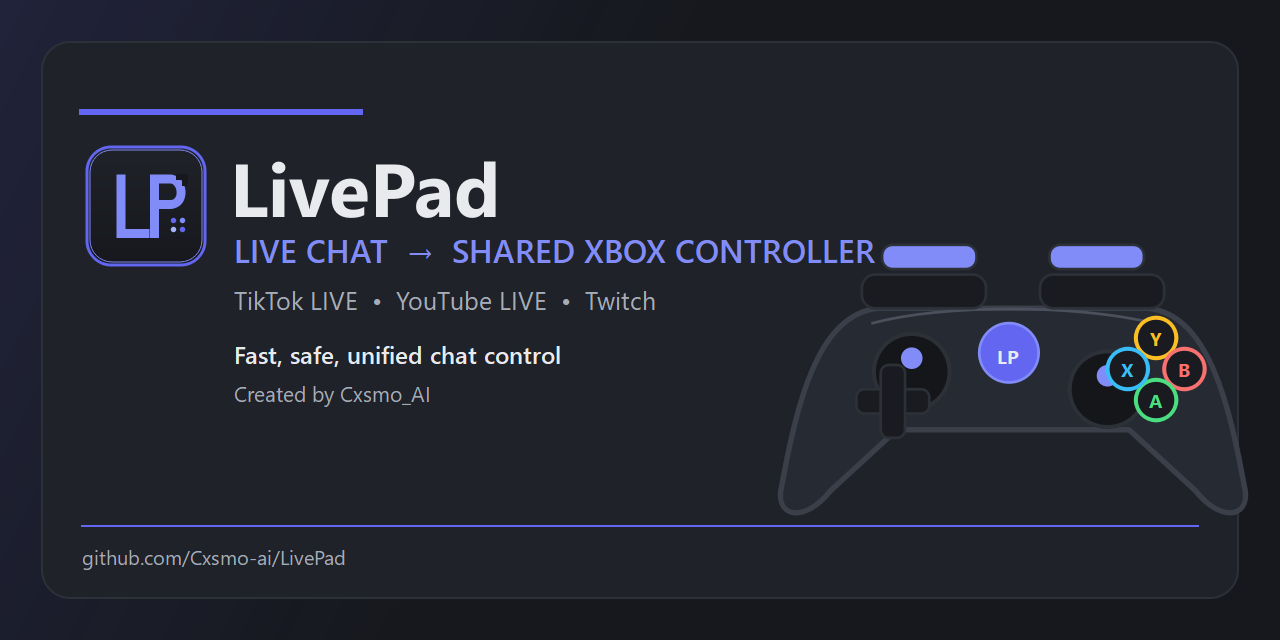
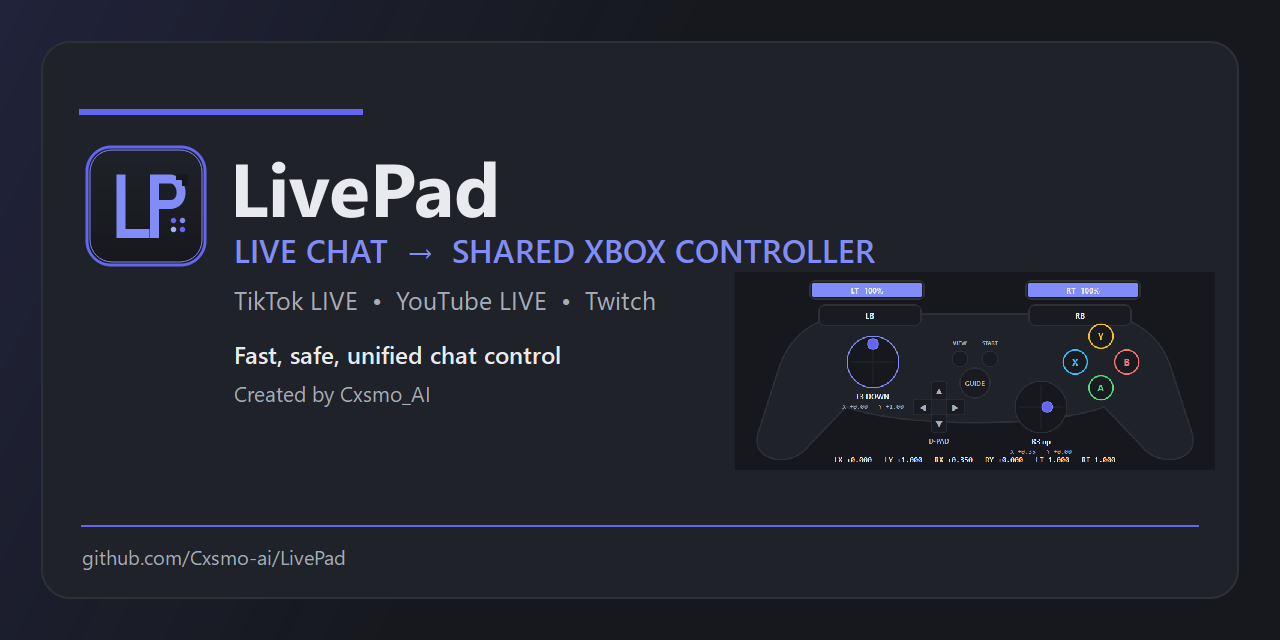
Match social preview controller to desktop tester

diff --git a/tools/generate_social_preview.py b/tools/generate_social_preview.py
@@ -1,7 +1,15 @@
+import os
+import sys
 from pathlib import Path
 
+sys.path.insert(0, str(Path(__file__).resolve().parents[1]))
+
 from PyQt6.QtCore import QPointF, QRectF, Qt
-from PyQt6.QtGui import QColor, QFont, QGuiApplication, QImage, QLinearGradient, QPainter, QPainterPath, QPen
+from PyQt6.QtGui import QColor, QFont, QImage, QLinearGradient, QPainter, QPainterPath, QPen
+from PyQt6.QtWidgets import QApplication
+
+from controller.state import ControllerState
+from gamepad_tester import GamepadTesterWidget
 
 
 PAGE = QColor("#16181D")
@@ -82,8 +90,31 @@ def draw_controller(painter: QPainter, x: float, y: float, scale: float) -> None
         painter.drawText(QRectF(x + (cx - 12) * scale, y + (cy - 9) * scale, 24 * scale, 18 * scale), Qt.AlignmentFlag.AlignCenter, label)
 
 
+def render_tester() -> QImage:
+    """Render the real in-app tester so this artwork cannot drift from it."""
+    os.environ.setdefault("QT_QPA_PLATFORM", "offscreen")
+    app = QApplication.instance() or QApplication([])
+    tester = GamepadTesterWidget()
+    tester.resize(900, 330)
+    tester.set_state(
+        ControllerState(
+            ly=1.0,
+            rx=0.35,
+            lt=1.0,
+            rt=1.0,
+            buttons=frozenset({"l3"}),
+        )
+    )
+    image = QImage(900, 330, QImage.Format.Format_RGB32)
+    image.fill(PAGE)
+    painter = QPainter(image)
+    tester.render(painter)
+    painter.end()
+    return image
+
+
 def draw_preview() -> None:
-    app = QGuiApplication.instance() or QGuiApplication([])
+    app = QApplication.instance() or QApplication([])
     width, height = 1280, 640
     image = QImage(width, height, QImage.Format.Format_RGB32)
     image.fill(PAGE)
@@ -122,7 +153,11 @@ def draw_preview() -> None:
     painter.setFont(QFont("Segoe UI", 16))
     painter.drawText(QRectF(234, 378, 560, 30), Qt.AlignmentFlag.AlignLeft | Qt.AlignmentFlag.AlignVCenter, "Created by Cxsmo_AI")
 
-    draw_controller(painter, 770, 153, 1.35)
+    # Reuse the actual Qt tester render. This keeps the social preview's
+    # controller geometry, labels, state readout, and palette 1:1 with the
+    # controller shown in the desktop application.
+    tester_image = render_tester().copy(50, 0, 800, 330)
+    painter.drawImage(QRectF(735, 272, 480, 198), tester_image)
     painter.setPen(QPen(INDIGO, 2))
     painter.drawLine(82, 526, 1198, 526)
     painter.setPen(MUTED)
